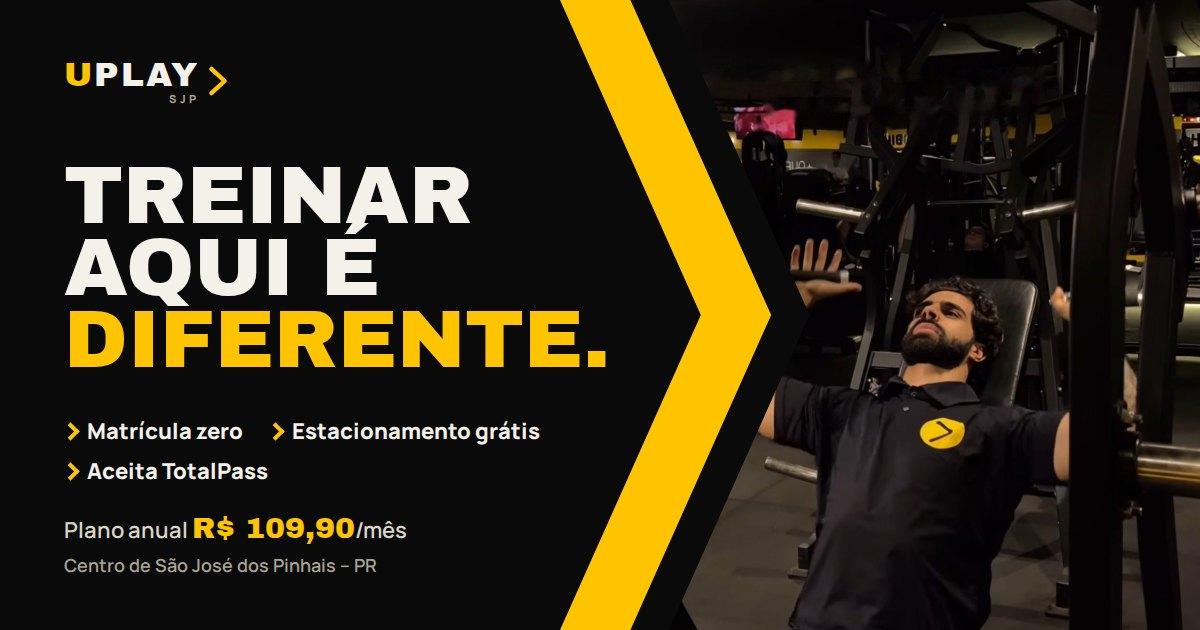
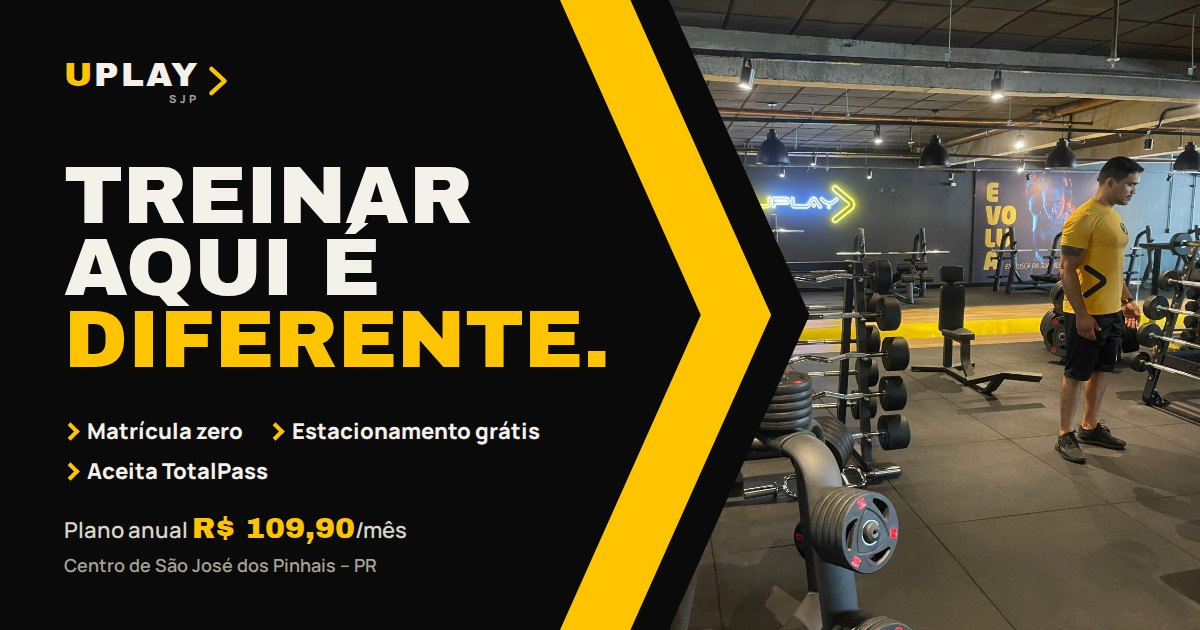
Uplay SJP: fotos em alta resolução nos lugares de destaque
- Hero com a foto do peso livre do site da unidade (3024 px na origem)
- Galeria reorganizada: musculação, cardio e supinos em alta; saem
  funcional e sala de coletivas (232 px na origem) e o placeholder kids
- Prévia de link refeita com a nova foto do hero

Claude-Session: https://claude.ai/code/session_011bFmfPmp5Ne2CyxhDoEvXD

diff --git a/uplay-sjp/index.html b/uplay-sjp/index.html
@@ -237,7 +237,7 @@ section[id]{ scroll-margin-top:64px; }
 .hero__photo{ position:absolute; inset:0; clip-path:polygon(17% 0,100% 0,100% 100%,17% 100%,39% 50%); }
 .hero__cut{ position:absolute; inset:0; background:var(--yellow); clip-path:polygon(0 0,11% 0,33% 50%,11% 100%,0 100%,22% 50%); }
 .hero__photo.ph::before{ left:auto; right:14px; }
-.hero__photo img{ object-position:62% 60%; }
+.hero__photo img{ object-position:72% 50%; }
 
 .facts{
   list-style:none; margin:40px 0 0; padding:22px 0 30px; border-top:1px solid var(--line-dark);
@@ -309,6 +309,8 @@ section[id]{ scroll-margin-top:64px; }
 .bento .ph{ width:100%; height:100%; }
 .bento .ph img{ transition:transform .4s var(--ease); }
 .bento button:hover .ph img{ transform:scale(1.03); }
+.b7 .ph img{ object-position:50% 15%; }
+.b8 .ph img{ object-position:50% 72%; }
 .bento__cap{
   position:absolute; left:0; bottom:0; display:inline-flex; align-items:center; gap:8px;
   background:var(--black); color:var(--paper); font-weight:800; font-size:.78rem; letter-spacing:.08em; text-transform:uppercase; padding:8px 12px;
@@ -316,14 +318,14 @@ section[id]{ scroll-margin-top:64px; }
 .bento__cap .chev{ color:var(--yellow); width:9px; height:11px; }
 .bento__cap .chev{ stroke-width:5; }
 .b1{ grid-column:span 2; grid-row:span 2; }
-.b4,.b7,.b10{ grid-column:span 2; }
+.b4{ grid-column:span 2; }
 @media (min-width:860px){
   .bento{ grid-template-columns:repeat(6,1fr); grid-auto-rows:150px; gap:10px; }
   .b1{ grid-column:1 / span 4; grid-row:1 / span 3; }
   .b2{ grid-column:5 / span 2; grid-row:1 / span 2; }
   .b3{ grid-column:5 / span 2; grid-row:3; }
   .b4,.b5,.b6{ grid-column:span 2; grid-row:span 2; }
-  .b7,.b8,.b9,.b10{ grid-column:span 3; grid-row:span 2; }
+  .b7,.b8{ grid-column:span 3; grid-row:span 2; }
 }
 
 /* Lightbox */
@@ -609,8 +611,8 @@ section[id]{ scroll-margin-top:64px; }
       </div>
 
       <div class="hero__media" aria-hidden="true">
-        <figure class="hero__photo ph" data-ph="foto-musculacao.jpg">
-          <img src="fotos/foto-musculacao.webp" srcset="fotos/foto-musculacao-800.webp 800w, fotos/foto-musculacao.webp 1600w" sizes="(min-width:960px) 50vw, 100vw" alt="" fetchpriority="high" onerror="this.remove()">
+        <figure class="hero__photo ph" data-ph="foto-peso-livre.jpg">
+          <img src="fotos/foto-peso-livre.webp" srcset="fotos/foto-peso-livre-800.webp 800w, fotos/foto-peso-livre.webp 1600w" sizes="(min-width:960px) 50vw, 100vw" alt="" fetchpriority="high" onerror="this.remove()">
         </figure>
         <div class="hero__cut"></div>
       </div>
@@ -718,21 +720,19 @@ section[id]{ scroll-margin-top:64px; }
         <p class="eyebrow reveal"><svg class="chev" aria-hidden="true"><use href="#chev"/></svg>Estrutura</p>
         <h2 class="h2 reveal">Espaço de sobra<br>pra treinar.</h2>
       </div>
-      <p class="reveal">Musculação, peso livre, cardio, funcional e sala de coletivas em dois andares, com ambiente climatizado, tudo no mesmo lugar, no Centro de São José dos Pinhais. Toque nas fotos para ampliar.</p>
+      <p class="reveal">Musculação, peso livre, cardio, mobilidade e sala de coletivas em dois andares, com ambiente climatizado, tudo no mesmo lugar, no Centro de São José dos Pinhais. Toque nas fotos para ampliar.</p>
     </div>
 
     <!-- Troque cada foto em /fotos mantendo o nome do arquivo -->
     <ul class="bento" id="bento">
-      <li class="b1 reveal"><button type="button" data-caption="Salão"><figure class="ph" data-ph="foto-salao.jpg"><img src="fotos/foto-salao.webp" srcset="fotos/foto-salao-800.webp 800w, fotos/foto-salao.webp 1600w" sizes="(min-width:860px) 66vw, 100vw" alt="Vista do salão principal com a passarela de madeira e a faixa amarela" loading="lazy" onerror="this.remove()"></figure><span class="bento__cap"><svg class="chev" aria-hidden="true"><use href="#chev"/></svg>Salão</span></button></li>
-      <li class="b2 reveal"><button type="button" data-caption="Peso livre"><figure class="ph" data-ph="foto-peso-livre.jpg"><img src="fotos/foto-peso-livre.webp" srcset="fotos/foto-peso-livre-800.webp 800w, fotos/foto-peso-livre.webp 1600w" sizes="(min-width:860px) 33vw, 50vw" alt="Área de peso livre com halteres, anilhas e medicine balls sob o letreiro Uplay" loading="lazy" onerror="this.remove()"></figure><span class="bento__cap"><svg class="chev" aria-hidden="true"><use href="#chev"/></svg>Peso livre</span></button></li>
-      <li class="b3 reveal"><button type="button" data-caption="Cardio"><figure class="ph" data-ph="foto-cardio.jpg"><img src="fotos/foto-cardio.webp" srcset="fotos/foto-cardio-800.webp 800w, fotos/foto-cardio.webp 1600w" sizes="(min-width:860px) 33vw, 50vw" alt="Bikes de ar e remos na área de cardio" loading="lazy" onerror="this.remove()"></figure><span class="bento__cap"><svg class="chev" aria-hidden="true"><use href="#chev"/></svg>Cardio</span></button></li>
-      <li class="b4 reveal"><button type="button" data-caption="Sala de coletivas"><figure class="ph" data-ph="foto-aula-coletiva.jpg"><img src="fotos/foto-aula-coletiva.webp" srcset="fotos/foto-aula-coletiva-800.webp 800w, fotos/foto-aula-coletiva.webp 1600w" sizes="(min-width:860px) 33vw, 50vw" alt="Sala de aulas coletivas com piso de madeira e espelho" loading="lazy" onerror="this.remove()"></figure><span class="bento__cap"><svg class="chev" aria-hidden="true"><use href="#chev"/></svg>Sala de coletivas</span></button></li>
-      <li class="b5 reveal"><button type="button" data-caption="Musculação"><figure class="ph" data-ph="foto-musculacao-2.jpg"><img src="fotos/foto-musculacao-2.webp" srcset="fotos/foto-musculacao-2-800.webp 800w, fotos/foto-musculacao-2.webp 1600w" sizes="(min-width:860px) 33vw, 50vw" alt="Aparelhos de musculação em frente à parede amarela da área aeróbica" loading="lazy" onerror="this.remove()"></figure><span class="bento__cap"><svg class="chev" aria-hidden="true"><use href="#chev"/></svg>Musculação</span></button></li>
-      <li class="b6 reveal"><button type="button" data-caption="Mobilidade"><figure class="ph" data-ph="foto-mobilidade.jpg"><img src="fotos/foto-mobilidade.webp" srcset="fotos/foto-mobilidade-800.webp 800w, fotos/foto-mobilidade.webp 1600w" sizes="(min-width:860px) 33vw, 50vw" alt="Barras montadas e medicine balls" loading="lazy" onerror="this.remove()"></figure><span class="bento__cap"><svg class="chev" aria-hidden="true"><use href="#chev"/></svg>Mobilidade</span></button></li>
-      <li class="b7 reveal"><button type="button" data-caption="Funcional"><figure class="ph" data-ph="foto-funcional.jpg"><img src="fotos/foto-funcional.webp" srcset="fotos/foto-funcional-800.webp 800w, fotos/foto-funcional.webp 1600w" sizes="(min-width:860px) 33vw, 50vw" alt="Área funcional com bolas suíças, espaldar e TRX" loading="lazy" onerror="this.remove()"></figure><span class="bento__cap"><svg class="chev" aria-hidden="true"><use href="#chev"/></svg>Funcional</span></button></li>
-      <li class="b8 reveal"><button type="button" data-caption="Mezanino"><figure class="ph" data-ph="foto-mezanino.jpg"><img src="fotos/foto-mezanino.webp" srcset="fotos/foto-mezanino-800.webp 800w, fotos/foto-mezanino.webp 1600w" sizes="(min-width:860px) 33vw, 50vw" alt="Vista do mezanino para o salão de aparelhos e a fachada de vidro" loading="lazy" onerror="this.remove()"></figure><span class="bento__cap"><svg class="chev" aria-hidden="true"><use href="#chev"/></svg>Mezanino</span></button></li>
-      <li class="b9 reveal"><button type="button" data-caption="Recepção"><figure class="ph" data-ph="foto-recepcao.jpg"><img src="fotos/foto-recepcao.webp" srcset="fotos/foto-recepcao-800.webp 800w, fotos/foto-recepcao.webp 1600w" sizes="(min-width:860px) 33vw, 50vw" alt="Recepção com o letreiro Uplay na parede" loading="lazy" onerror="this.remove()"></figure><span class="bento__cap"><svg class="chev" aria-hidden="true"><use href="#chev"/></svg>Recepção</span></button></li>
-      <li class="b10 reveal"><button type="button" data-caption="Espaço Kids"><figure class="ph" data-ph="foto-espaco-kids.jpg"><img src="fotos/foto-espaco-kids.jpg" alt="Espaço kids" loading="lazy" onerror="this.remove()"></figure><span class="bento__cap"><svg class="chev" aria-hidden="true"><use href="#chev"/></svg>Espaço Kids</span></button></li>
+      <li class="b1 reveal"><button type="button" data-caption="Musculação"><figure class="ph" data-ph="foto-musculacao-2.jpg"><img src="fotos/foto-musculacao-2.webp" srcset="fotos/foto-musculacao-2-800.webp 800w, fotos/foto-musculacao-2.webp 1600w" sizes="(min-width:860px) 66vw, 100vw" alt="Aparelhos de musculação em frente à parede amarela da área aeróbica" loading="lazy" onerror="this.remove()"></figure><span class="bento__cap"><svg class="chev" aria-hidden="true"><use href="#chev"/></svg>Musculação</span></button></li>
+      <li class="b2 reveal"><button type="button" data-caption="Cardio"><figure class="ph" data-ph="foto-cardio.jpg"><img src="fotos/foto-cardio.webp" srcset="fotos/foto-cardio-800.webp 800w, fotos/foto-cardio.webp 1600w" sizes="(min-width:860px) 33vw, 50vw" alt="Air bikes no mezanino, com vista para o salão" loading="lazy" onerror="this.remove()"></figure><span class="bento__cap"><svg class="chev" aria-hidden="true"><use href="#chev"/></svg>Cardio</span></button></li>
+      <li class="b3 reveal"><button type="button" data-caption="Salão"><figure class="ph" data-ph="foto-salao.jpg"><img src="fotos/foto-salao.webp" srcset="fotos/foto-salao-800.webp 800w, fotos/foto-salao.webp 1600w" sizes="(min-width:860px) 33vw, 50vw" alt="Vista do salão principal com a passarela de madeira e a faixa amarela" loading="lazy" onerror="this.remove()"></figure><span class="bento__cap"><svg class="chev" aria-hidden="true"><use href="#chev"/></svg>Salão</span></button></li>
+      <li class="b4 reveal"><button type="button" data-caption="Supinos"><figure class="ph" data-ph="foto-supinos.jpg"><img src="fotos/foto-supinos.webp" srcset="fotos/foto-supinos-800.webp 800w, fotos/foto-supinos.webp 1600w" sizes="(min-width:860px) 33vw, 100vw" alt="Estação de supinos em frente ao painel Evolua" loading="lazy" onerror="this.remove()"></figure><span class="bento__cap"><svg class="chev" aria-hidden="true"><use href="#chev"/></svg>Supinos</span></button></li>
+      <li class="b5 reveal"><button type="button" data-caption="Mobilidade"><figure class="ph" data-ph="foto-mobilidade.jpg"><img src="fotos/foto-mobilidade.webp" srcset="fotos/foto-mobilidade-800.webp 800w, fotos/foto-mobilidade.webp 1600w" sizes="(min-width:860px) 33vw, 50vw" alt="Barras montadas e medicine balls" loading="lazy" onerror="this.remove()"></figure><span class="bento__cap"><svg class="chev" aria-hidden="true"><use href="#chev"/></svg>Mobilidade</span></button></li>
+      <li class="b6 reveal"><button type="button" data-caption="Máquinas"><figure class="ph" data-ph="foto-musculacao.jpg"><img src="fotos/foto-musculacao.webp" srcset="fotos/foto-musculacao-800.webp 800w, fotos/foto-musculacao.webp 1600w" sizes="(min-width:860px) 33vw, 50vw" alt="Professor da Uplay treinando em máquina de peito" loading="lazy" onerror="this.remove()"></figure><span class="bento__cap"><svg class="chev" aria-hidden="true"><use href="#chev"/></svg>Máquinas</span></button></li>
+      <li class="b7 reveal"><button type="button" data-caption="Mezanino"><figure class="ph" data-ph="foto-mezanino.jpg"><img src="fotos/foto-mezanino.webp" srcset="fotos/foto-mezanino-800.webp 800w, fotos/foto-mezanino.webp 1600w" sizes="(min-width:860px) 50vw, 50vw" alt="Vista do mezanino para o salão de aparelhos e a fachada de vidro" loading="lazy" onerror="this.remove()"></figure><span class="bento__cap"><svg class="chev" aria-hidden="true"><use href="#chev"/></svg>Mezanino</span></button></li>
+      <li class="b8 reveal"><button type="button" data-caption="Recepção"><figure class="ph" data-ph="foto-recepcao.jpg"><img src="fotos/foto-recepcao.webp" srcset="fotos/foto-recepcao-800.webp 800w, fotos/foto-recepcao.webp 1600w" sizes="(min-width:860px) 50vw, 50vw" alt="Recepção com o letreiro Uplay na parede" loading="lazy" onerror="this.remove()"></figure><span class="bento__cap"><svg class="chev" aria-hidden="true"><use href="#chev"/></svg>Recepção</span></button></li>
     </ul>
   </div>
 </section>

diff --git a/uplay-sjp/README.md b/uplay-sjp/README.md
@@ -8,16 +8,16 @@ Coloque as fotos em `fotos/` como JPG, com exatamente estes nomes, e rode `pytho
 
 | Arquivo | Onde aparece | Status |
 |---|---|---|
-| `foto-musculacao.jpg` | Hero (cortada pela seta) | incluída |
+| `foto-peso-livre.jpg` | Hero (cortada pela seta) | incluída (site uplaysjp.com.br) |
+| `foto-musculacao.jpg` | Galeria – Máquinas | incluída (frame de vídeo, baixa resolução) |
 | `foto-salao.jpg` | Galeria (destaque) | incluída |
-| `foto-peso-livre.jpg` | Galeria | incluída (site uplaysjp.com.br) |
-| `foto-cardio.jpg` | Galeria | incluída |
-| `foto-aula-coletiva.jpg` | Por que Uplay – 04 e galeria | incluída (sala vazia; troque por foto de aula quando tiver) |
+| `foto-cardio.jpg` | Galeria | incluída (site uplaysjp.com.br) |
+| `foto-aula-coletiva.jpg` | Por que Uplay – 04 | incluída, mas em baixa resolução (sala vazia); troque por foto de aula |
+| `foto-supinos.jpg` | Galeria | incluída (site uplaysjp.com.br) |
 | `foto-musculacao-2.jpg` | Galeria | incluída (site uplaysjp.com.br) |
 | `foto-recepcao.jpg` | Galeria | incluída (site uplaysjp.com.br) |
 | `foto-mezanino.jpg` | Galeria | incluída (site uplaysjp.com.br) |
 | `foto-mobilidade.jpg` | Galeria | incluída |
-| `foto-funcional.jpg` | Galeria | incluída |
 | `post-totalpass.jpg` | Bloco TotalPass no plano | incluída |
 | `foto-professor.jpg` | Por que Uplay – 01 (Prof. Gi Ferreira) | incluída |
 | `post-estacionamento.jpg` | Por que Uplay – 02 (post "Nosso estacionamento mudou") | incluída; o fundo parece ilustração, troque por foto real do pátio quando tiver |
